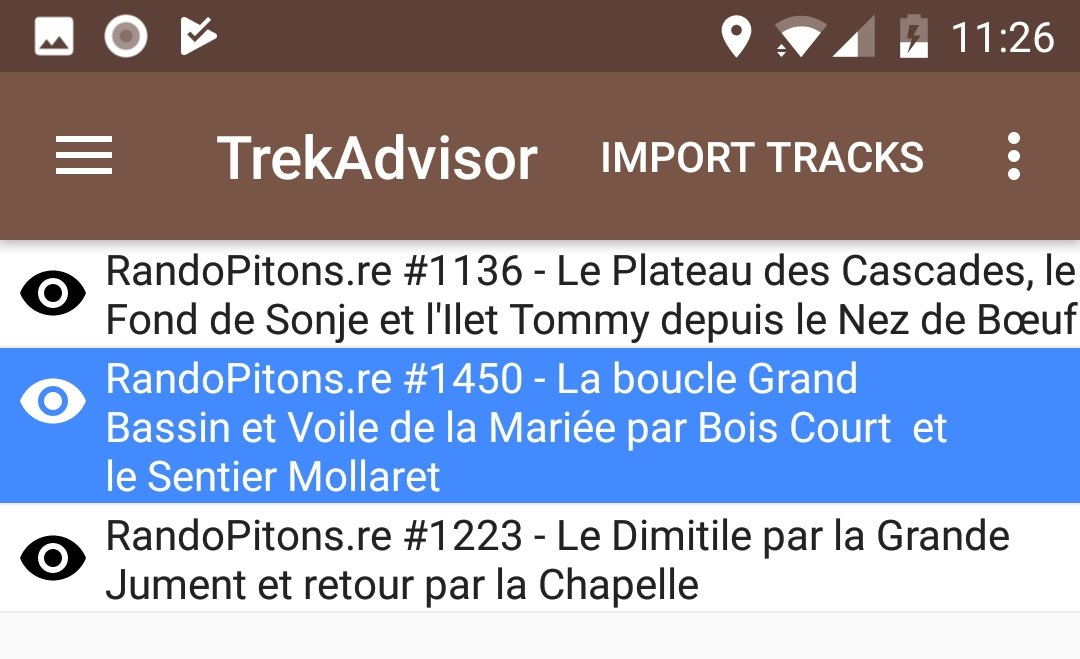
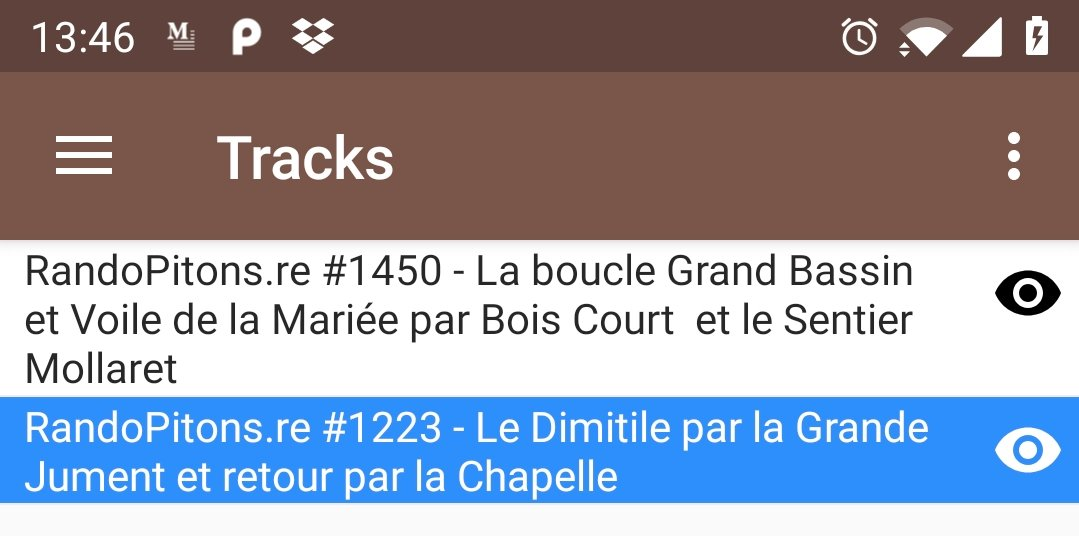
Add FAB in TracksManageFragment and update readme images

diff --git a/app/src/main/java/com/peterlaurence/trekme/MainActivity.kt b/app/src/main/java/com/peterlaurence/trekme/MainActivity.kt
@@ -32,6 +32,7 @@ import androidx.lifecycle.Lifecycle
 import androidx.lifecycle.Observer
 import androidx.lifecycle.ViewModelProvider
 import androidx.lifecycle.lifecycleScope
+import androidx.navigation.NavController
 import androidx.navigation.findNavController
 import com.google.android.material.navigation.NavigationView
 import com.google.android.material.snackbar.Snackbar
@@ -65,6 +66,10 @@ import javax.inject.Inject
 class MainActivity : AppCompatActivity(), NavigationView.OnNavigationItemSelectedListener {
     private var fragmentManager: FragmentManager? = null
     private lateinit var binding: ActivityMainBinding
+
+    private val navController: NavController by lazy {
+        findNavController(R.id.nav_host_fragment)
+    }
 
     @Inject
     lateinit var trekMeContext: TrekMeContext
@@ -256,7 +261,7 @@ class MainActivity : AppCompatActivity(), NavigationView.OnNavigationItemSelecte
         val drawer = findViewById<DrawerLayout>(R.id.drawer_layout)
         if (drawer != null && drawer.isDrawerOpen(GravityCompat.START)) {
             drawer.closeDrawer(GravityCompat.START)
-        } else if (findNavController(R.id.nav_host_fragment).previousBackStackEntry == null) {
+        } else if (navController.previousBackStackEntry == null) {
             /* BACK button twice to exit */
             if (snackBarExit.isShown) {
                 super.onBackPressed()
@@ -347,7 +352,7 @@ class MainActivity : AppCompatActivity(), NavigationView.OnNavigationItemSelecte
             return
         }
 
-        findNavController(R.id.nav_host_fragment).navigate(R.id.action_global_mapViewFragment)
+        navController.navigate(R.id.action_global_mapViewFragment)
     }
 
     /**
@@ -355,7 +360,7 @@ class MainActivity : AppCompatActivity(), NavigationView.OnNavigationItemSelecte
      * should immediately scroll to.
      */
     private fun showMapListFragment(mapId: Int? = null) {
-        if (getString(R.string.fragment_map_list) != findNavController(R.id.nav_host_fragment).currentDestination?.label) {
+        if (getString(R.string.fragment_map_list) != navController.currentDestination?.label) {
             val action = NavGraphDirections.actionGlobalMapListFragment().apply {
                 if (mapId != null) {
                     val index = viewModel.getMapIndex(mapId)
@@ -364,12 +369,12 @@ class MainActivity : AppCompatActivity(), NavigationView.OnNavigationItemSelecte
                     }
                 }
             }
-            findNavController(R.id.nav_host_fragment).navigate(action)
+            navController.navigate(action)
         }
     }
 
     private fun showMapCreateFragment() {
-        findNavController(R.id.nav_host_fragment).navigate(R.id.action_global_mapCreateFragment)
+        navController.navigate(R.id.action_global_mapCreateFragment)
         if (!checkMapCreationPermission()) {
             requestMapCreationPermission()
         }
@@ -377,19 +382,19 @@ class MainActivity : AppCompatActivity(), NavigationView.OnNavigationItemSelecte
     }
 
     private fun showMapImportFragment() {
-        findNavController(R.id.nav_host_fragment).navigate(R.id.action_global_mapImportFragment)
+        navController.navigate(R.id.action_global_mapImportFragment)
     }
 
     private fun showWifiP2pFragment() {
-        findNavController(R.id.nav_host_fragment).navigate(R.id.action_global_wifiP2pFragment)
+        navController.navigate(R.id.action_global_wifiP2pFragment)
     }
 
     private fun showRecordFragment() {
-        findNavController(R.id.nav_host_fragment).navigate(R.id.action_global_recordFragment)
+        navController.navigate(R.id.action_global_recordFragment)
     }
 
     private fun showSettingsFragment() {
-        findNavController(R.id.nav_host_fragment).navigate(R.id.action_global_settingsFragment)
+        navController.navigate(R.id.action_global_settingsFragment)
     }
 
     private fun showMessageInSnackbar(message: String) {
@@ -433,7 +438,7 @@ class MainActivity : AppCompatActivity(), NavigationView.OnNavigationItemSelecte
         when (event) {
             is MapDownloadFinishedEvent -> {
                 /* Only if the user is still on the GoogleMapWmtsFragment, navigate to the map list */
-                if (getString(R.string.google_map_wmts_label) == findNavController(R.id.nav_host_fragment).currentDestination?.label) {
+                if (getString(R.string.google_map_wmts_label) == navController.currentDestination?.label) {
                     showMapListFragment(event.mapId)
                 }
                 showMessageInSnackbar(getString(R.string.service_download_finished))

diff --git a/app/src/main/java/com/peterlaurence/trekme/ui/mapview/components/tracksmanage/TracksManageFragment.kt b/app/src/main/java/com/peterlaurence/trekme/ui/mapview/components/tracksmanage/TracksManageFragment.kt
@@ -37,8 +37,11 @@ import java.io.FileNotFoundException
 import javax.inject.Inject
 
 /**
- * A [Fragment] subclass that shows the routes currently available for a given map, and
- * provides the ability to import new routes.
+ * A fragment that shows the routes currently available for a given map, and
+ * provides the ability to:
+ *
+ * * Rename existing tracks,
+ * * Import new tracks from existing GPX files.
  *
  * @author peterLaurence on 01/03/17 -- Converted to Kotlin on 24/04/19
  */
@@ -47,7 +50,8 @@ class TracksManageFragment : Fragment(), TrackAdapter.TrackSelectionListener {
     private var _binding: FragmentTracksManageBinding? = null
     private val binding get() = _binding!!
 
-    @Inject lateinit var trackImporter: TrackImporter
+    @Inject
+    lateinit var trackImporter: TrackImporter
     private var map: Map? = null
     private var trackRenameMenuItem: MenuItem? = null
     private var trackAdapter: TrackAdapter? = null
@@ -76,12 +80,17 @@ class TracksManageFragment : Fragment(), TrackAdapter.TrackSelectionListener {
         /* Register the event-bus */
         EventBus.getDefault().register(this)
 
+        binding.floatingActionButton.setOnClickListener {
+            onCreateTrack()
+        }
+
         return binding.root
     }
 
     override fun onDestroyView() {
         super.onDestroyView()
 
+        _binding = null
         trackAdapter = null
         trackRenameMenuItem = null
         EventBus.getDefault().unregister(this)
@@ -103,15 +112,6 @@ class TracksManageFragment : Fragment(), TrackAdapter.TrackSelectionListener {
 
     override fun onOptionsItemSelected(item: MenuItem): Boolean {
         when (item.itemId) {
-            R.id.import_tracks_id -> {
-                val intent = Intent(Intent.ACTION_OPEN_DOCUMENT)
-                intent.addCategory(Intent.CATEGORY_OPENABLE)
-
-                /* Search for all documents available via installed storage providers */
-                intent.type = "*/*"
-                startActivityForResult(intent, TRACK_REQUEST_CODE)
-                return true
-            }
             R.id.track_rename_id -> {
                 val map = map ?: return true
                 val selectedRoute = trackAdapter?.selectedRoute ?: return true
@@ -291,6 +291,15 @@ class TracksManageFragment : Fragment(), TrackAdapter.TrackSelectionListener {
         } else {
             binding.emptyRoutePanel.visibility = View.VISIBLE
         }
+    }
+
+    private fun onCreateTrack() {
+        val intent = Intent(Intent.ACTION_OPEN_DOCUMENT)
+        intent.addCategory(Intent.CATEGORY_OPENABLE)
+
+        /* Search for all documents available via installed storage providers */
+        intent.type = "*/*"
+        startActivityForResult(intent, TRACK_REQUEST_CODE)
     }
 
     interface TrackChangeListener {

diff --git a/app/src/main/java/com/peterlaurence/trekme/ui/wifip2p/WifiP2pFragment.kt b/app/src/main/java/com/peterlaurence/trekme/ui/wifip2p/WifiP2pFragment.kt
@@ -191,4 +191,10 @@ class WifiP2pFragment : Fragment() {
             }
         }
     }
+
+    override fun onDestroyView() {
+        super.onDestroyView()
+
+        _binding = null
+    }
 }

diff --git a/Readme.fr.md b/Readme.fr.md
@@ -94,11 +94,10 @@ Depuis le menu principal, choisissez "Créer une carte". Un menu vous donne alor
 sources suivantes : 
 
 <p align="center">
-<img src="doc/tuto/wmts-providers.jpg" width="300">
+<img src="doc/tuto/wmts-providers-fr.jpg" width="300">
 </p>
 
-Vous pouvez librement visionner les cartes d'IGN France. Mais pour sauvegarder des cartes IGN France,
- l'abonnement annuel est nécessaire.
+Quand vous avez fait votre choix, la carte s'affiche après un délai de quelques secondes.
 
 <p align="center">
 <img src="doc/tuto/select-area.jpg" width="300">
@@ -112,7 +111,7 @@ NB : la plupart des fournisseurs de cartes n'ont qu'une couverture partielle du 
 d'OpenStreetMap, qui couvre le monde entier, l'USGS par ex ne couvre que les Etats-Unis, l'IGN Espagne 
 que l'Espagne, etc.
 
-Un menu tel que celui-ci s'affiche :
+A l'exception de l'IGN France, qui nécessite un abonnement annuel, le menu suivant s'affiche :
 
 <p align="center">
 <img src="doc/tuto/map-configuration.jpg" width="300">
@@ -318,7 +317,7 @@ La liste des traces disponibles pour votre carte s'affiche alors (il est possibl
 en ait aucune) :
 
 <p align="center">
-<img src="doc/tuto/track-list.jpg" width="300">
+<img src="doc/tuto/track-list-fr.jpg" width="300">
 </p>
 
 Vous pouvez alors :
